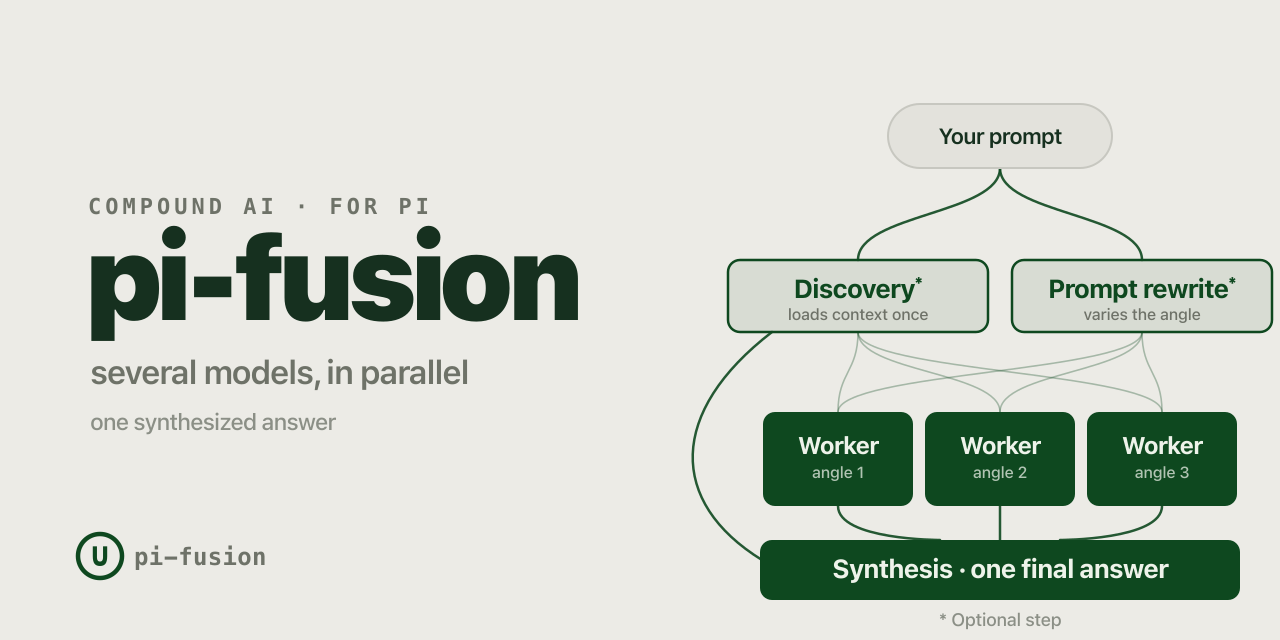
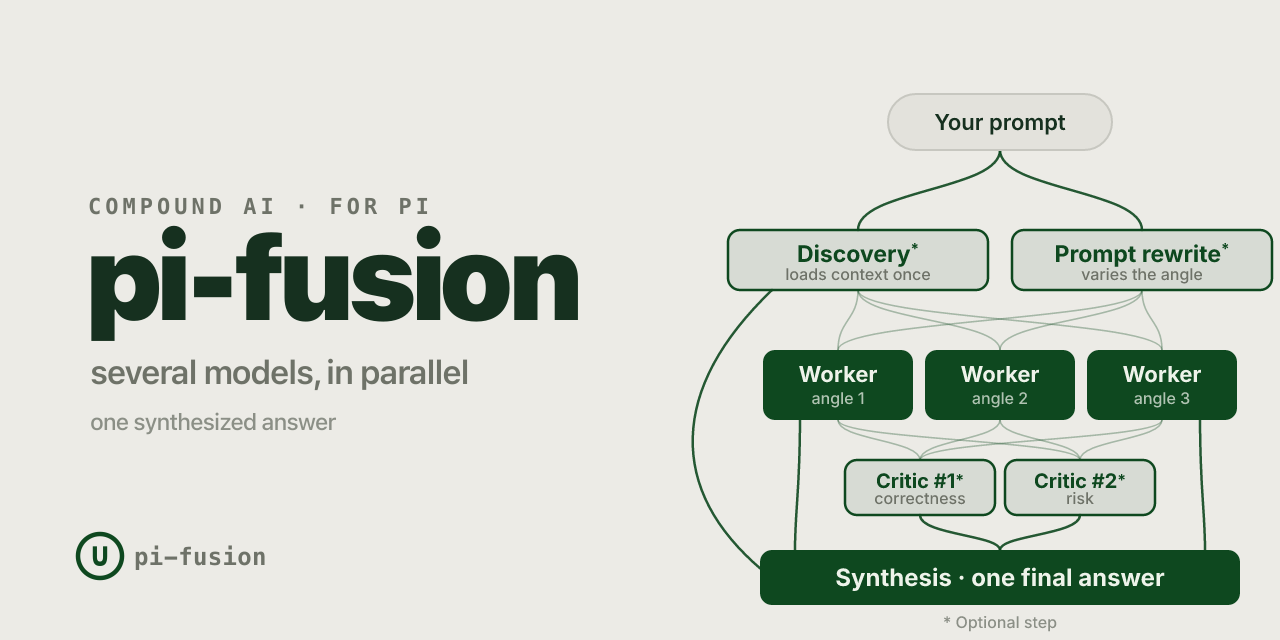
docs: update README and preview images for the critic stage

Changed region(s): [[0.5625, 0.1562, 1.0, 1.0], [0.5312, 0.7188, 0.5625, 0.8125], [0.5312, 0.5938, 0.5625, 0.6875]]

diff --git a/README.md b/README.md
@@ -173,7 +173,7 @@ Open the settings pane:
 | Rewrite        | Toggles prompt rewriting before worker fanout.                 |
 | Critics        | Toggles critics, picks model and reasoning effort.             |
 | Synthesis      | Picks the synthesis model and reasoning effort.                |
-| Save and close | Persists settings in the pi session.                           |
+| Save and close | Persists settings in the pi session (kept on resume).          |
 
 Presets are user-defined snapshots of the settings pane. There are no built-in
 profiles, because those would go stale and hide assumptions. Save your own from
@@ -211,6 +211,8 @@ current, off, minimal, low, medium, high, xhigh
 ## Prompt Customization
 
 You can fully customize all the prompts used by `pi-fusion`. On first run, default prompts are automatically written to your global `fusion.yml` file (`~/.pi/agent/fusion.yml`). You can see and edit them there, or override them on a per-project basis. Existing `fusion.json` files remain supported.
+
+Saved prompts do not update when pi-fusion's defaults change. Delete a prompt from the file to use the current default for it. If you delete the whole `prompts` key, pi-fusion writes the current defaults again on the next start.
 
 ### Where prompts are stored
 
@@ -400,6 +402,11 @@ itself. `--fusion-model` remains as a backwards-compatible alias for `--fusion-w
 `--fusion-preset NAME` to load a preset from `~/.pi/agent/fusion.yml` or `.pi/fusion.yml` at
 startup. Planner subprocesses get all tools by default; use `/fusion tools read-only` or
 `--fusion-planner-tools read-only` to restore the original narrow read/search/list tool set.
+Critics always get read-only tools.
+
+In a resumed session, saved settings are kept. Value flags you pass (counts, models, reasoning,
+byte budgets, timeout, tools) override them. Saved on/off choices win over `--fusion-enabled` and
+the `--fusion-no-*` flags, but `--fusion-disabled` always turns fusion off.
 
 ## What gets sent where
 
@@ -414,6 +421,7 @@ When fusion is armed, the next idle, non-command user input consumes that arm an
 - gives query rewriting no tools;
 - injects shared discovery context into every worker prompt;
 - asks workers for concise planning markdown;
+- when critics are on, replaces the worker splits with live critic splits and runs the critics in parallel with read-only tools (`read`, `grep`, `find`, `ls`); each critic sees the shared discovery context, the worker prompt variations (when rewrite is on), and the completed worker outputs; critics are skipped when no worker completed;
 - inserts the final planning bundle into the synthesis turn's system prompt via `before_agent_start`.
 
 The user's message stays untouched in the session. `/tree` and `/fork` still show the original
@@ -459,30 +467,31 @@ These skips keep the extension predictable and avoid recursion.
 
 ## Context budget
 
-Worker output inserted into the synthesis turn is capped per worker (`fusion-output-bytes`, default
-`12000`). Recent conversation context sent to discovery and workers is capped separately
+Worker and critic output inserted downstream is capped per sub-agent (`fusion-output-bytes`, default
+`12000`). Recent conversation context sent to discovery, workers, and critics is capped separately
 (`fusion-context-bytes`, default `16000`). Discovery tool-result context is bounded before being
 shared downstream.
 
 Three byte budgets keep the three audiences separate:
 
-- `fusion-output-bytes` (default `12000`) — worker output inserted into the synthesis turn's prompt.
+- `fusion-output-bytes` (default `12000`) — each worker's output in the critic and synthesis prompts,
+  and each critic's output in the synthesis prompt.
 - `fusion-resume-bytes` (default `8000`) — worker conclusions kept in context for resumed and
   subsequent turns (the durable handoff).
-- `fusion-context-bytes` (default `16000`) — recent conversation sent down to discovery and workers.
+- `fusion-context-bytes` (default `16000`) — recent conversation sent down to discovery, workers, and critics.
 
-Full worker transcripts are stored in the session file as non-context archive entries (see
+Full worker and critic transcripts are stored in the session file as non-context archive entries (see
 [Session archive & resume](#session-archive--resume)). They are recoverable via `/fusion-transcript`
 but never enter the context window automatically.
 
 ## Rough edges
 
-- Discovery, rewrite, and worker planning block the turn until the fanout finishes, times out, or
-  you cancel with `Esc`.
-- Discovery and workers are subprocesses, not true pi session forks. They receive a truncated text
+- Discovery, rewrite, worker planning, and critics block the turn until the fanout finishes, times
+  out, or you cancel with `Esc`.
+- Discovery, workers, and critics are subprocesses, not true pi session forks. They receive a truncated text
   snapshot of recent conversation. Their full output is archived into the parent session afterward
   rather than as live sub-sessions.
-- Discovery and workers do not see attached images.
+- Discovery, workers, and critics do not see attached images.
 - Worker subprocesses load normal pi context files such as `AGENTS.md` and your installed extensions; only pi-fusion stays inert inside them (gated by `PI_FUSION_SUBAGENT`).
 - The live split pane only appears in TUI mode. Print, JSON, and RPC modes still run fusion without
   that UI.
@@ -491,8 +500,8 @@ but never enter the context window automatically.
 - Malformed `fusion.yml`, `fusion.yaml`, or `fusion.json` files are ignored instead of crashing the extension; fix the config syntax if presets or prompts are missing unexpectedly.
 - Some providers hide reasoning streams, so a worker column may show no reasoning even with
   reasoning enabled.
-- Discovery and worker tool access defaults to all tools. Use read-only planner tools for safer planning passes when you do not want subprocesses to run write-capable tools.
-- The current pipeline uses two LLM round trips before the synthesis turn. A lighter mode may exist
+- Discovery and worker tool access defaults to all tools. Use read-only planner tools for safer planning passes when you do not want subprocesses to run write-capable tools. Critics always run read-only.
+- The current pipeline uses two LLM round trips before the synthesis turn (three with critics). A lighter mode may exist
   later, but the explicit flow is better for testing right now.
 
 ## Development
